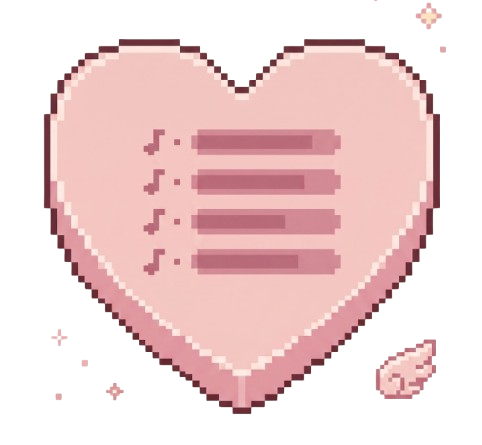
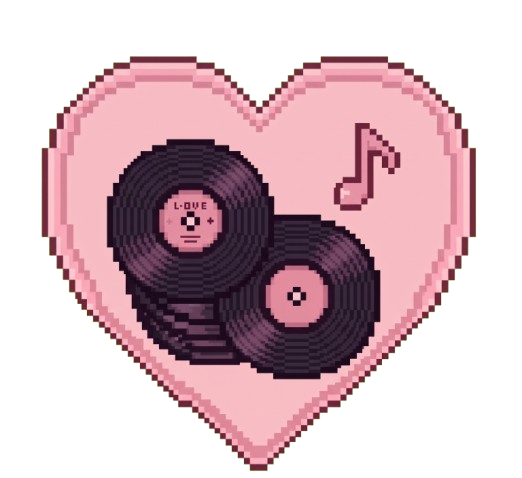
feat(ui): add animated cat themes, tap-to-purr hearts, and mobile layout fixes

diff --git a/src/App.jsx b/src/App.jsx
@@ -239,6 +239,30 @@ const isMobile = isNative && isPhoneScreen;
   const volumeBarRef = useRef(null);
   const [showDebug] = useState(false);
   const [localTracks, setLocalTracks] = useState([]);
+  // --- Add the hearts state and click handler here ---
+  const [hearts, setHearts] = useState([]);
+
+const handleCatClick = (e) => {
+    const id = Date.now();
+    
+    const catLeft = e.target.offsetLeft;
+    const catTop = e.target.offsetTop;
+    const catWidth = e.target.offsetWidth;
+    const catHeight = e.target.offsetHeight; // Grab the height
+
+    const offsetX = Math.floor(Math.random() * 20) - 10;
+    
+    const x = catLeft + (catWidth / 2) + offsetX;
+    
+    // If on mobile, push the start position down by 30% of the cat's height
+    const y = isMobile ? catTop + (catHeight * 0.3) : catTop;
+
+    setHearts((prev) => [...prev, { id, x, y }]);
+
+    setTimeout(() => {
+      setHearts((prev) => prev.filter((heart) => heart.id !== id));
+    }, 1000);
+  };
 
   const loadLocalPlaylist = useCallback(async () => {
     if (window.cupid?.getLocalPlaylist) {
@@ -520,8 +544,8 @@ const isMobile = isNative && isPhoneScreen;
           draggable={false} 
         />
 
-        {/* Window title (hidden on mobile) */}
-        {!isMobile && <div className="window-title">cupid player</div>}
+       {/* Window title (hidden on native mobile/tablet devices) */}
+       {!isNative && <div className="window-title">cupid player</div>}
 
         {/* Record player centered in frame */}
         <img src={assets.recordPlayer} className="record-player" alt="" draggable={false} />
@@ -554,8 +578,38 @@ const isMobile = isNative && isPhoneScreen;
           draggable={false} 
         />
 
-       {/* Decorative (Stays at the top) */}
-      <img src={assets.plant} className="layer layer-ui plant-image" alt="" draggable={false} />
+        {/* Decorative (Stays at the top) */}
+        <img src={assets.plant} className="layer layer-ui plant-image" alt="" draggable={false} />
+
+        {/* The Cat & Floating Hearts */}
+        {assets.cat && (
+          <div 
+            className="cat-container" 
+            style={{ position: 'absolute', zIndex: 25 }}
+          >
+            <img 
+              src={assets.cat} 
+              className="cat-image" 
+              alt="Cat" 
+              draggable={false} 
+              onClick={handleCatClick}
+            />
+            {/* Render the floating hearts */}
+            {hearts.map((heart) => (
+              <div 
+                key={heart.id} 
+                className="floating-heart"
+                style={{
+                  left: `${heart.x}px`,
+                  top: `${heart.y}px`,
+                  transform: 'translate(-50%, -50%)'
+                }}
+              >
+                ♥
+              </div>
+            ))}
+          </div>
+        )}
 
         {/* Progress bar layers */}
         <img src={assets.progressBar} className="layer layer-ui shift-down" alt="" draggable={false} />

diff --git a/src/useTheme.js b/src/useTheme.js
@@ -23,11 +23,10 @@ import pinkRepeatButton from '../assets/pink/repeat_button.png';
 import pinkVolumeBarHigh from '../assets/pink/volume_bar_high.png';
 import pinkVolumeBarLow from '../assets/pink/volume_bar_low.png';
 import pinkTracklistButton from '../assets/pink/tracklist_button.png';
-// for now reuse pink for blue, or make a blue version later:
 import blueTracklistButton from '../assets/blue/tracklist_button.png';
 import pinkFrameMobile from '../assets/pink/frame_mobile.png';
 import pinkFrameNoBgMobile from '../assets/pink/frame_no_background_mobile.png';
-
+import pinkCat from '../assets/pink/cat.gif';
 // ── Shared record animations ────────────────────────────
 import recordA1 from '../assets/animations/record-pink/frame-1.png';
 import recordA2 from '../assets/animations/record-pink/frame-2.png';
@@ -64,6 +63,7 @@ const SHARED_RECORD_FRAMES = {
 import blueFrame from '../assets/blue/frame.png';
 import blueFrameNoBg from '../assets/blue/frame_no_background.png';
 import bluePlant from '../assets/blue/plant.png';
+import blueCat from '../assets/blue/blackcat.gif';
 import blueRecordPlayer from '../assets/blue/record_player.png';
 import blueAlbumFrame from '../assets/blue/album_frame.png';
 import blueBackwardsButton from '../assets/blue/backwards_button.png';
@@ -91,6 +91,7 @@ const THEME_ASSETS = {
     frameNoBg: pinkFrameNoBg,
     frameNoBgMobile: pinkFrameNoBgMobile, // <-- Added hollow mobile frame
     plant: pinkPlant,
+    cat: pinkCat,
     recordPlayer: pinkRecordPlayer,
     albumFrame: pinkAlbumFrame,
     backwardsButton: pinkBackwardsButton,
@@ -120,6 +121,7 @@ const THEME_ASSETS = {
     frameNoBg: blueFrameNoBg,
     frameNoBgMobile: blueFrameNoBgMobile,
     plant: bluePlant,
+    cat: blueCat,
     recordPlayer: blueRecordPlayer,
     albumFrame: blueAlbumFrame,
     backwardsButton: blueBackwardsButton,

diff --git a/src/App.css b/src/App.css
@@ -903,3 +903,55 @@
 .player.mobile-layout .plant-image {
   transform: translateY(calc(35 * var(--u))); /* Decreased from 50 to pull it up */
 }
+/* ── Decorative Cat (Pink Theme Default) ───────────────────────── */
+.cat-image {
+  position: absolute;
+  left: calc(30 * var(--u));   
+  top: calc(220 * var(--u));   /* Decrease this slightly if the larger cat sinks into the floor */
+  width: calc(110 * var(--u)); /* INCREASE THIS NUMBER (was 85) */
+  z-index: 25;
+  image-rendering: pixelated;
+  pointer-events: auto;
+  cursor: pointer;
+  user-select: none;
+  -webkit-tap-highlight-color: transparent;
+  outline: none;
+}
+.floating-heart {
+  position: absolute; /* Changed back from fixed */
+  color: #fd3466;
+  font-size: calc(16 * var(--u));
+  z-index: 9999;
+  pointer-events: none;
+  animation: floatUpAndFade 1s ease-out forwards;
+}
+
+@keyframes floatUpAndFade {
+  0% {
+    transform: translateY(0) scale(0.5);
+    opacity: 1;
+  }
+  100% {
+    transform: translateY(calc(-40 * var(--u))) scale(1.5);
+    opacity: 0;
+  }
+}
+
+.player.mobile-layout .cat-image {
+  left: calc(30 * var(--u)) !important; /* Tweak this to move left/right on mobile */
+  top: calc(360 * var(--u)) !important; /* Tweak this to move up/down on mobile */
+}
+
+/* ── Blue Theme Window Cat ───────────────────────────── */
+.theme-blue .cat-image {
+  left: calc(110 * var(--u)); 
+  top: calc(90 * var(--u));   /* Lower number raises it so larger paws stay on the sill */
+  width: calc(105 * var(--u)); /* Increase this number to make it bigger (was 65–85) */
+  z-index: 5;
+}
+/* Mobile adjustment for the blue window cat */
+.theme-blue.mobile-layout .cat-image {
+  left: calc(110 * var(--u)) !important;
+  top: calc(180 * var(--u)) !important;
+  width: calc(125 * var(--u));
+}
